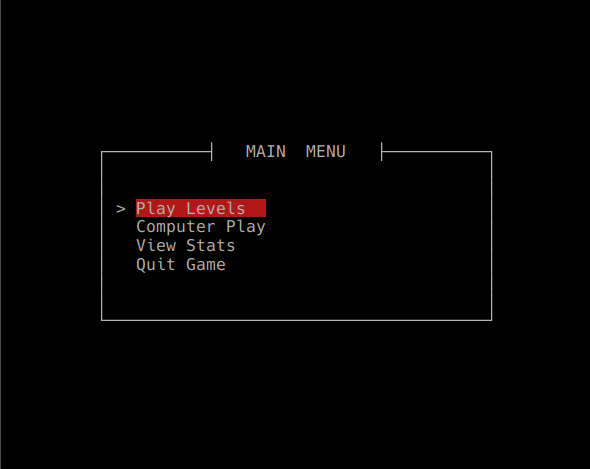
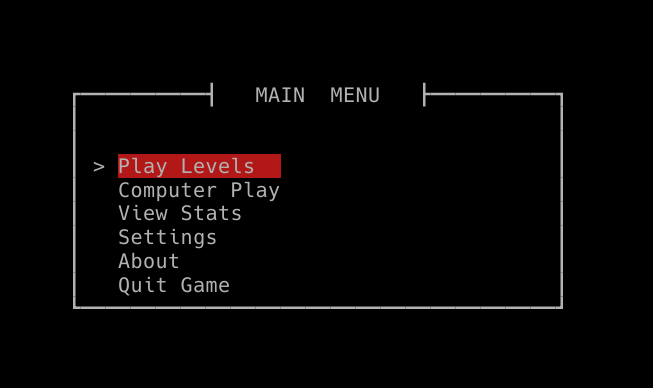
add images, update preview

diff --git a/Brainy_Warrior/README.md b/Brainy_Warrior/README.md
@@ -43,11 +43,13 @@
 
 ## Preview
 
-<img src="./screenshot/tui_main_menu.png" alt="level 1" height="200" /> <img src="./screenshot/tui_levels_menu.png" alt="lose state" height="200" />
+<img src="./screenshot/tui_main_menu.png" alt="Main Menu" height="200" /> <img src="./screenshot/tui_levels_menu.png" alt="levels menu" height="200" /> <img src="./screenshot/tui_settings_menu.png" alt="settings" height="200" /> <img src="./screenshot/tui_algorithms_menu.png" alt="settings" height="200" />
 
 ## Game Flow
 
-<!-- Add image here miss saruma -->
+<img src="./screenshot/tui_lvl1.png" alt="level 1" height="200" /> <img src="./screenshot/lose_hc_theme.png" alt="lose state" height="200" />
+<img src="./screenshot/tui_win.png" alt="win state" height="200" /> <img src="./screenshot/path_hc_theme.png" alt="path" height="200" /> 
+
 The game is designed with a user-friendly TUI (Terminal User Interface). Upon launching, player is greeted with a Main Menu where they can choose to play levels manually, watch the computer solve puzzles using various AI algorithms, or view their statistics.
 
 **User Prompts & Navigation:**
